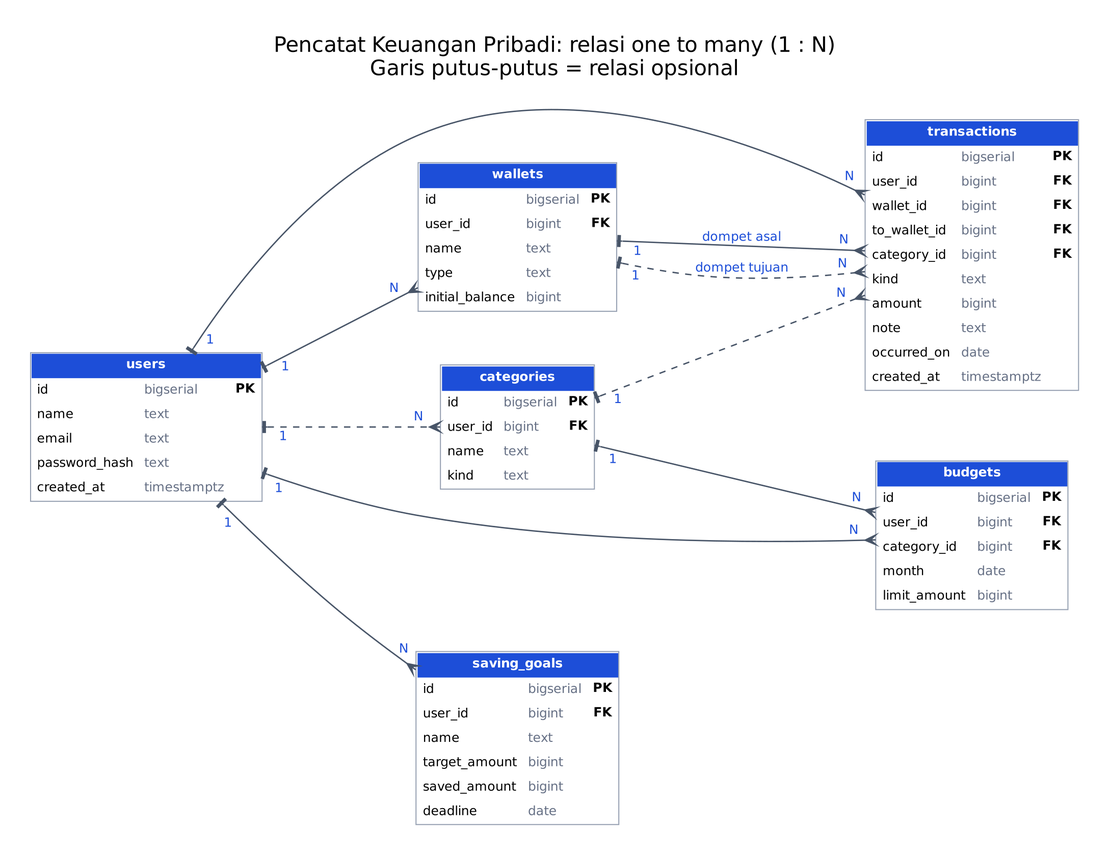
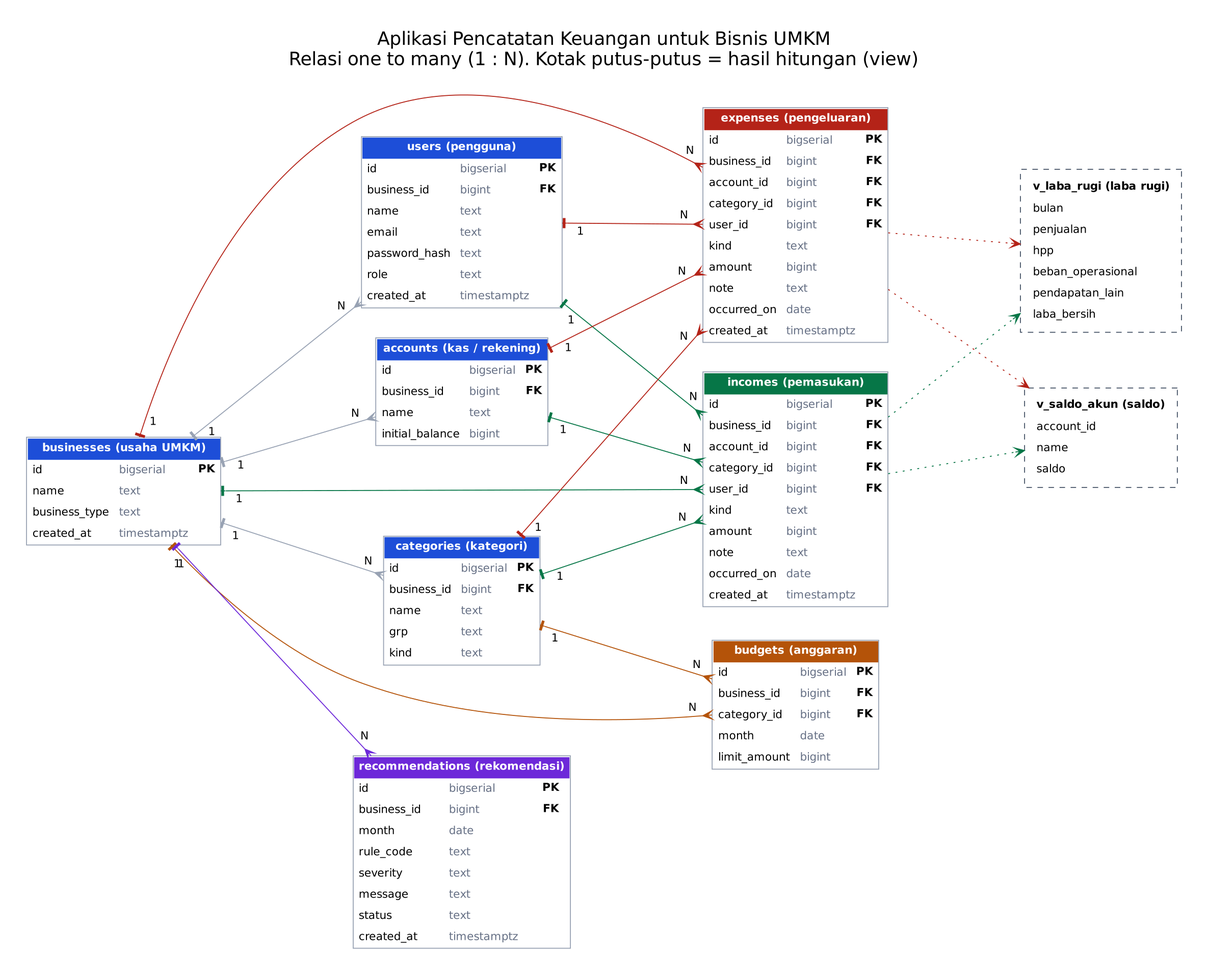
update ke umkm

diff --git a/prototype/index.html b/prototype/index.html
@@ -1,5 +1,5 @@
 <!DOCTYPE html>
-<html lang="id"><head><meta charset="utf-8"><meta name="viewport" content="width=device-width,initial-scale=1"><title>Pencatat Keuangan Pribadi</title>
+<html lang="id"><head><meta charset="utf-8"><meta name="viewport" content="width=device-width,initial-scale=1"><title>Aplikasi Pencatatan Keuangan untuk Bisnis UMKM</title>
 <style>:root{--accent:#2563eb;--bg:#f5f7fe}
 *{box-sizing:border-box;margin:0;padding:0}
 body{font:15px/1.5 system-ui,"Segoe UI",sans-serif;background:var(--bg);color:#1d2230}
@@ -48,7 +48,17 @@ main{padding:28px 4vw}.card{border:0;border-radius:22px;box-shadow:0 6px 24px #1
 .wallets{display:grid;grid-template-columns:repeat(auto-fit,minmax(200px,1fr));gap:14px;margin-bottom:16px}.wallets .card{margin:0;border-top:5px solid var(--accent)}
 .feed{display:flex;justify-content:space-between;gap:10px;padding:12px 0;border-bottom:1px solid #eef0f5}.in{color:#067647;font-weight:700}.out{color:#b42318;font-weight:700}
 svg.area{width:100%;height:230px}
-</style></head><body><header><h1>Pencatat Keuangan Pribadi</h1><div id="nav"></div></header><main></main><div id="toast" role="status"></div>
+
+header h1{max-width:560px;line-height:1.3}.acts{display:flex;gap:8px;align-items:center;flex-wrap:wrap}
+.menu{padding:14px 4vw 0;display:flex}main{padding-top:18px}
+.profit{background:#067647;color:#fff}.profit.loss{background:#b42318}
+.rec{border-left:4px solid;padding:8px 12px;margin-bottom:10px;border-radius:0}.rec.r{border-color:#d92d20;background:#fef3f2;color:#7a271a}.rec.y{border-color:#f79009;background:#fffaeb;color:#7a4504}.rec.g{border-color:#12b76a;background:#ecfdf3;color:#085d3a}.rec.n{border-color:#98a2b3;background:#f2f4f7}
+.hero{display:block;text-align:center;border-radius:0;padding:70px 6vw;margin:0}.hero h2{font-size:clamp(26px,4vw,44px);line-height:1.2}.hero p{max-width:620px;margin:0 auto 18px}
+.feat{display:grid;grid-template-columns:repeat(auto-fit,minmax(220px,1fr));gap:16px;padding:28px 6vw}.feat .card{margin:0}.feat .ic{font-size:30px}
+.steps{text-align:center}footer{text-align:center;padding:24px;color:#667085;font-size:13px}
+.auth{min-height:100vh;display:grid;place-items:center;padding:16px}.auth .card{width:min(420px,100%)}
+form.stack{grid-template-columns:1fr;margin:10px 0}.link{color:var(--accent);cursor:pointer;text-decoration:underline}
+</style></head><body><div id="root"></div><div id="toast" role="status"></div>
 <script>
 const $=s=>document.querySelector(s);
 const esc=s=>String(s??'').replace(/[&<>"']/g,c=>({'&':'&amp;','<':'&lt;','>':'&gt;','"':'&quot;',"'":'&#39;'}[c]));
@@ -58,56 +68,91 @@ const opt=a=>a.map(x=>`<option>${esc(x)}</option>`).join('');
 const table=(h,r)=>`<div class="scroll"><table><tr>${h.map(x=>`<th>${x}</th>`).join('')}</tr>${r.length?r.map(c=>`<tr>${c.map(x=>`<td>${x}</td>`).join('')}</tr>`).join(''):`<tr><td colspan="${h.length}" class="k">Belum ada data.</td></tr>`}</table></div>`;
 const stat=(k,v,s='')=>`<div class="card"><div class="k">${k}</div><div class="v">${v}</div><div class="k">${s}</div></div>`;
 const bar=(label,right,pct,c='')=>`<div class="row"><span>${label}</span><span class="k">${right}</span></div><div class="bar"><i class="${c}" style="width:${Math.min(100,pct)}%"></i></div>`;
-let page,timer;
+let timer;
 function toast(m){const t=$('#toast');t.textContent=m;t.style.display='block';clearTimeout(timer);timer=setTimeout(()=>t.style.display='none',2800)}
-function go(p){page=p;render()}
-function render(){
-  $('#nav').innerHTML=Object.keys(PAGES).map(p=>`<button class="${p===page?'on':''}" onclick="go('${p}')">${ICONS[p]?`<span class="ic" aria-hidden="true">${ICONS[p]}</span>`:''}<span>${p}</span></button>`).join('');
-  $('main').dataset.page=page;
-  $('main').innerHTML=`<h2>${page}</h2>`+PAGES[page]()+`<p class="note">Prototipe tampilan. Data dummy, tersimpan hanya selama halaman terbuka.${typeof NOTE==='string'?' '+NOTE:''}</p>`;
-}
-function donut(entries,colors,center){const t=sum(entries,e=>e[1])||1;let a=0;const seg=entries.map((e,i)=>{const s=a;a+=e[1]/t*100;return `${colors[i%colors.length]} ${s}% ${a}%`}).join(',');
-  return `<div class="donut-wrap"><div class="donut" style="background:conic-gradient(${seg})"><div>${center}</div></div><ul class="legend">${entries.map((e,i)=>`<li><i style="background:${colors[i%colors.length]}"></i>${esc(e[0])}<b>${rp(e[1])}</b></li>`).join('')}</ul></div>`}
 function readForm(e){e.preventDefault();return Object.fromEntries(new FormData(e.target))}
 function csv(name,rows){const q=v=>{v=String(v);if(/^[=+\-@]/.test(v))v="'"+v;return '"'+v.replace(/"/g,'""')+'"'};
   const a=document.createElement('a');a.href=URL.createObjectURL(new Blob([rows.map(r=>r.map(q).join(',')).join('\n')],{type:'text/csv'}));a.download=name;a.click()}
 
-const TITLE='Keuangan Pribadi';
-const wallets={'Tunai':200000,'Rekening':3000000,'E-wallet':150000};
-const tx=[{d:'2026-11-01',k:'Pemasukan',w:'Rekening',c:'Gaji',v:4500000},{d:'2026-11-08',k:'Pengeluaran',w:'Rekening',c:'Tagihan',v:600000},{d:'2026-11-15',k:'Pengeluaran',w:'E-wallet',c:'Transportasi',v:120000},{d:'2026-11-22',k:'Pengeluaran',w:'Tunai',c:'Makan',v:150000},{d:'2026-11-24',k:'Pengeluaran',w:'Rekening',c:'Makan',v:700000}];
-const budgets={'Makan':1000000,'Transportasi':400000,'Tagihan':600000};
-const goals=[{n:'Laptop baru',t:8000000,s:2500000,d:'2027-06-30'},{n:'Dana darurat',t:5000000,s:1000000,d:'2027-12-31'}];
-const cats=['Makan','Transportasi','Tagihan','Hiburan','Gaji','Lainnya'];
-const bal=w=>wallets[w]+sum(tx,t=>t.k==='Transfer'?(t.to===w?t.v:0)-(t.w===w?t.v:0):t.w===w?(t.k==='Pemasukan'?t.v:-t.v):0);
-const spent=c=>sum(tx.filter(t=>t.k==='Pengeluaran'&&t.c===c&&t.d.startsWith('2026-11')),t=>t.v);
-const total=k=>sum(tx.filter(t=>t.k===k&&t.d.startsWith('2026-11')),t=>t.v);
-function addTx(e){const f=readForm(e);if(f.k==='Transfer'&&f.w===f.to)return toast('Dompet asal dan tujuan harus berbeda.');
-  tx.push({d:f.d,k:f.k,w:f.w,to:f.to,c:f.k==='Transfer'?'ke '+f.to:f.c,v:+f.v});render();toast('Tersimpan')}
-function kindChange(s){const t=s.value==='Transfer';$('#to').hidden=!t;$('#cat').hidden=t}
-function budgetList(){return Object.entries(budgets).map(([c,l])=>{const p=spent(c)/l*100;return bar(`${esc(c)} <span class="tag ${p>=100?'r':p>=80?'y':'g'}">${Math.round(p)}%</span>`,`${rp(spent(c))} dari ${rp(l)}`,p,p>=100?'r':p>=80?'y':'')}).join('')}
+const T='Aplikasi Pencatatan Keuangan untuk Bisnis UMKM';
+const NOW='2026-11',TODAY='2026-11-26';
+const IN=['penjualan','pendapatan_lain','modal'];
+const LABEL={penjualan:'Penjualan',pendapatan_lain:'Pendapatan lain',modal:'Setoran modal',hpp:'HPP (bahan/barang)',operasional:'Operasional',prive:'Prive (diambil pemilik)'};
+const defaults=()=>[['Penjualan toko','penjualan'],['Pendapatan lain','pendapatan_lain'],['Modal pemilik','modal'],['Bahan baku','hpp'],['Gaji','operasional'],['Sewa','operasional'],['Listrik & air','operasional'],['Transport','operasional'],['Promosi','operasional'],['Ambil pribadi','prive']];
+const newBiz=(name,owner,email,pass)=>({name,owner,email,pass,cats:defaults(),acc:{Kas:0,Rekening:0},tx:[],bud:{}});
+const demo=newBiz('Usaha Demo','Pemilik Demo','demo@umkm.test','demo1234');demo.acc={Kas:1000000,Rekening:15000000};
+[['09',9200000,4300000,2600000],['10',10500000,4900000,2700000],['11',9800000,5200000,3400000]].forEach(([m,s,h,o])=>{
+  [['01','Penjualan toko',Math.round(s*.4),'Kas'],['15','Penjualan toko',Math.round(s*.6),'Rekening'],['03','Bahan baku',h,'Rekening'],['05','Sewa',900000,'Rekening'],['20','Gaji',1500000,'Rekening'],['12','Listrik & air',350000,'Kas'],['18','Promosi',o-2750000>0?o-2750000:50000,'Kas'],['24','Ambil pribadi',1000000,'Rekening']]
+  .forEach(([d,c,v,a])=>demo.tx.push({d:`2026-${m}-${d}`,c,v,a,n:''}))});
+demo.bud={'Bahan baku':5000000,'Gaji':1500000,'Promosi':500000,'Listrik & air':400000};
+const users=[demo];
+let me=null,view='home',page='Dasbor',month=NOW;
+const grp=c=>(me.cats.find(x=>x[0]===c)||[])[1];
+const inMonth=m=>me.tx.filter(t=>t.d.startsWith(m));
+const total=(m,g)=>sum(inMonth(m).filter(t=>grp(t.c)===g),t=>t.v);
+const spent=(c,m)=>sum(inMonth(m).filter(t=>t.c===c),t=>t.v);
+function pl(m){const s=total(m,'penjualan'),h=total(m,'hpp'),o=total(m,'operasional'),l=total(m,'pendapatan_lain');return{s,h,o,l,kotor:s-h,bersih:s-h-o+l,prive:total(m,'prive')}}
+const prev=m=>{const [y,n]=m.split('-').map(Number);return n===1?`${y-1}-12`:`${y}-${String(n-1).padStart(2,'0')}`};
+const saldo=a=>me.acc[a]+sum(me.tx.filter(t=>t.a===a),t=>IN.includes(grp(t.c))?t.v:-t.v);
+const NAMA={'2026-09':'September','2026-10':'Oktober','2026-11':'November'};
+function recs(){const p=pl(NOW),q=pl(prev(NOW)),r=[];
+  if(!inMonth(NOW).length)return[['n','Mulai mencatat','Catat penjualan dan pengeluaran bulan ini agar rekomendasi bisa dihitung.']];
+  if(p.bersih<0)r.push(['r','Usaha rugi bulan ini',`Rugi ${rp(-p.bersih)}. Periksa pengeluaran terbesar.`]);
+  else if(p.s&&p.bersih/p.s<.1)r.push(['y','Margin laba tipis',`Laba bersih hanya ${(p.bersih/p.s*100).toFixed(1)}% dari penjualan. Tinjau harga jual dan HPP.`]);
+  Object.entries(me.bud).forEach(([c,l])=>{const x=spent(c,NOW)/l;if(x>1)r.push(['r',`Anggaran ${c} terlewati`,`Terpakai ${Math.round(x*100)}%. Tahan belanja kategori ini.`]);else if(x>=.8)r.push(['y',`Anggaran ${c} hampir habis`,`Terpakai ${Math.round(x*100)}%.`])});
+  if(q.o&&p.o>q.o*1.2)r.push(['y','Beban operasional naik',`Naik ${Math.round((p.o/q.o-1)*100)}% dari bulan lalu.`]);
+  if(p.prive>0&&p.prive>p.bersih)r.push(['r','Prive melebihi laba',`Diambil ${rp(p.prive)}, laba bersih ${rp(p.bersih)}.`]);
+  return r.length?r:[['g','Kondisi aman','Tidak ada aturan peringatan yang terpicu bulan ini.']]}
+const recCard=([c,h,m])=>`<div class="rec ${c}"><b>${esc(h)}</b><div>${esc(m)}</div></div>`;
+
+function show(v){view=v;render();scrollTo(0,0)}
+function register(e){const f=readForm(e),email=f.email.trim().toLowerCase();
+  if(!f.biz.trim()||!f.owner.trim())return toast('Nama usaha dan nama pemilik wajib diisi.');
+  if(f.pass.length<8)return toast('Kata sandi minimal 8 karakter.');
+  if(f.pass!==f.pass2)return toast('Konfirmasi kata sandi tidak sama.');
+  if(users.some(u=>u.email===email))return toast('Email sudah terdaftar.');
+  const u=newBiz(f.biz.trim(),f.owner.trim(),email,f.pass);users.push(u);me=u;page='Dasbor';show('app');toast('Pendaftaran berhasil')}
+function login(e){const f=readForm(e),u=users.find(u=>u.email===f.email.trim().toLowerCase()&&u.pass===f.pass);
+  if(!u)return toast('Email atau kata sandi salah.');me=u;page='Dasbor';show('app')}
+function logout(){me=null;show('home')}
+function go(p){page=p;show('app')}
+function addTx(e){const f=readForm(e);me.tx.push({d:f.d,c:f.c,v:+f.v,a:f.a,n:f.n});render();toast('Tersimpan')}
+function addCat(e,g){const f=readForm(e),n=f.n.trim();if(!n||me.cats.some(c=>c[0]===n))return toast('Nama kategori kosong atau sudah ada.');me.cats.push([n,f.g||g]);render()}
+function ledger(masuk){const groups=masuk?IN:['hpp','operasional','prive'],rows=me.tx.filter(t=>groups.includes(grp(t.c))).sort((a,b)=>b.d.localeCompare(a.d));
+  return `<div class="card"><h3>Catat ${masuk?'pemasukan':'pengeluaran'}</h3><form onsubmit="addTx(event)"><label>Tanggal<input type="date" name="d" value="${TODAY}" required></label><label>Kategori<select name="c">${groups.map(g=>`<optgroup label="${LABEL[g]}">${opt(me.cats.filter(c=>c[1]===g).map(c=>c[0]))}</optgroup>`).join('')}</select></label><label>Nominal<input type="number" name="v" min="1" step="1" required></label><label>${masuk?'Masuk ke':'Dibayar dari'}<select name="a">${opt(Object.keys(me.acc))}</select></label><label>Catatan<input name="n"></label><button class="btn">Simpan</button></form></div>
+  <div class="card"><h3>Tambah kategori</h3><form onsubmit="addCat(event)"><label>Nama<input name="n" required></label><label>Kelompok<select name="g">${groups.map(g=>`<option value="${g}">${LABEL[g]}</option>`).join('')}</select></label><button class="btn alt">Tambah</button></form></div>
+  <div class="card">${table(['Tanggal','Kategori','Kelompok','Akun','Catatan','Nominal'],rows.map(t=>[t.d,esc(t.c),LABEL[grp(t.c)],t.a,esc(t.n),rp(t.v)]))}</div>`}
+const budgetList=()=>Object.keys(me.bud).length?Object.entries(me.bud).map(([c,l])=>{const x=spent(c,NOW)/l*100,k=x>100?'r':x>=80?'y':'';return bar(`${esc(c)} <span class="tag ${k||'g'}">${Math.round(x)}%</span>`,`${rp(spent(c,NOW))} dari ${rp(l)}`,x,k)}).join(''):'<p class="k">Belum ada anggaran.</p>';
+const plRows=m=>{const p=pl(m);return[['Penjualan',p.s],['HPP',-p.h],['Laba kotor',p.kotor],['Beban operasional',-p.o],['Pendapatan lain',p.l],['Laba bersih',p.bersih]]};
+function setBalances(e){const f=readForm(e);Object.keys(me.acc).forEach(a=>me.acc[a]=+f[a]||0);render();toast('Saldo awal disimpan')}
 const PAGES={
-'Dasbor':()=>{const out=total('Pengeluaran');const by={};tx.filter(t=>t.k==='Pengeluaran'&&t.d.startsWith('2026-11')).forEach(t=>by[t.c]=(by[t.c]||0)+t.v);
- const trend=[['Jun',2100000],['Jul',2450000],['Agu',1980000],['Sep',2300000],['Okt',2700000],['Nov',out]],mx=Math.max(...trend.map(t=>t[1]));
- return `<div class="grid">${stat('Total saldo',rp(sum(Object.keys(wallets),bal)))}${stat('Pemasukan November',rp(total('Pemasukan')))}${stat('Pengeluaran November',rp(out))}</div>
- <div class="grid two"><div class="card"><h3>Per kategori</h3>${Object.entries(by).map(([k,v])=>bar(esc(k),rp(v),v/out*100)).join('')}</div><div class="card"><h3>Tren 6 bulan</h3>${trend.map(([m,v])=>bar(m,rp(v),v/mx*100)).join('')}</div></div>
- <div class="card"><h3>Anggaran</h3>${budgetList()}</div>`},
-'Transaksi':()=>`<div class="card"><form onsubmit="addTx(event)"><label>Jenis<select name="k" onchange="kindChange(this)"><option>Pengeluaran</option><option>Pemasukan</option><option>Transfer</option></select></label><label>Nominal<input name="v" type="number" min="1" required></label><label>Dompet<select name="w">${opt(Object.keys(wallets))}</select></label><label id="to" hidden>Ke dompet<select name="to">${opt(Object.keys(wallets))}</select></label><label id="cat">Kategori<select name="c">${opt(cats)}</select></label><label>Tanggal<input type="date" name="d" value="2026-11-26" required></label><button class="btn">Simpan</button></form></div>
-<div class="card"><div class="row"><h3>Riwayat</h3><button class="btn alt sm" onclick="csv('transaksi.csv',[['tanggal','jenis','dompet','kategori','nominal'],...tx.map(t=>[t.d,t.k,t.w,t.c,t.v])])">Ekspor CSV</button></div>${table(['Tanggal','Jenis','Dompet','Kategori','Nominal'],[...tx].reverse().map(t=>[t.d,t.k,esc(t.w),esc(t.c),rp(t.v)]))}</div>`,
-'Dompet':()=>`<div class="grid">${Object.keys(wallets).map(w=>stat(esc(w),rp(bal(w)))).join('')}</div><div class="card"><h3>Tambah dompet</h3><form onsubmit="const f=readForm(event);if(f.n in wallets)return toast('Dompet sudah ada.');wallets[f.n]=+f.s;render()"><label>Nama<input name="n" required></label><label>Saldo awal<input name="s" type="number" min="0" required></label><button class="btn">Tambah</button></form></div>`,
-'Anggaran':()=>`<div class="card">${budgetList()}<p class="k">Kuning mulai 80%, merah mulai 100%.</p></div><div class="card"><form onsubmit="const f=readForm(event);budgets[f.c]=+f.l;render()"><label>Kategori<select name="c">${opt(cats.filter(c=>c!=='Gaji'))}</select></label><label>Batas bulanan<input name="l" type="number" min="1" required></label><button class="btn">Atur</button></form></div>`,
-'Target tabungan':()=>`<div class="grid">${goals.map((g,i)=>`<div class="card"><h3>${esc(g.n)}</h3>${bar(rp(g.s),rp(g.t),g.s/g.t*100)}<p class="k">Tenggat ${g.d}</p><button class="btn sm" onclick="goals[${i}].s+=100000;render()">+ Rp100.000</button></div>`).join('')}</div><div class="card"><form onsubmit="const f=readForm(event);goals.push({n:f.n,t:+f.t,s:0,d:f.d});render()"><label>Nama target<input name="n" required></label><label>Nominal<input name="t" type="number" min="1" required></label><label>Tenggat<input name="d" type="date" required></label><button class="btn">Tambah</button></form></div>`
+'Dasbor':()=>{const p=pl(NOW),ms=['2026-09','2026-10','2026-11'],mx=Math.max(1,...ms.flatMap(m=>{const x=pl(m);return[x.s,x.h+x.o]}));
+ return `<div class="grid">${stat('Saldo kas & rekening',rp(sum(Object.keys(me.acc),saldo)),Object.keys(me.acc).map(a=>`${a} ${rp(saldo(a))}`).join(' · '))}${stat('Penjualan November',rp(p.s))}${stat('Pengeluaran usaha',rp(p.h+p.o),'HPP + operasional')}<div class="card profit ${p.bersih<0?'loss':''}"><div>${p.bersih<0?'Rugi bersih':'Laba bersih'} November</div><div class="v">${rp(p.bersih)}</div></div></div>
+ <div class="split"><div class="card"><h3>Penjualan (biru) vs pengeluaran usaha (oranye)</h3><div class="cols">${ms.map(m=>{const x=pl(m);return `<div class="col"><div><i style="height:${x.s/mx*100}%" title="${rp(x.s)}"></i><i class="y" style="height:${(x.h+x.o)/mx*100}%" title="${rp(x.h+x.o)}"></i></div>${NAMA[m]}</div>`}).join('')}</div></div>
+ <div class="card"><h3>Rekomendasi</h3>${recs().slice(0,3).map(recCard).join('')}<button class="btn alt sm" onclick="go('Rekomendasi')">Lihat semua</button></div></div>
+ <div class="card"><h3>Saldo awal</h3><form onsubmit="setBalances(event)">${Object.keys(me.acc).map(a=>`<label>${a}<input type="number" name="${a}" min="0" value="${me.acc[a]}"></label>`).join('')}<button class="btn alt">Simpan</button></form></div>`},
+'Pemasukan':()=>ledger(true),
+'Pengeluaran':()=>ledger(false),
+'Anggaran':()=>`<div class="card"><h3>Anggaran November</h3>${budgetList()}</div><div class="card"><form onsubmit="const f=readForm(event);me.bud[f.c]=+f.l;render()"><label>Kategori<select name="c">${opt(me.cats.filter(c=>c[1]==='hpp'||c[1]==='operasional').map(c=>c[0]))}</select></label><label>Batas bulanan<input type="number" name="l" min="1" required></label><button class="btn">Atur</button></form></div>`,
+'Laba rugi':()=>`<div class="card"><div class="row"><label>Bulan<select onchange="month=this.value;render()">${Object.entries(NAMA).map(([v,n])=>`<option value="${v}" ${v===month?'selected':''}>${n} 2026</option>`).join('')}</select></label><button class="btn alt" onclick="csv('laba-rugi-'+month+'.csv',[['pos','nominal'],...plRows(month)])">Ekspor CSV</button></div></div>
+ <div class="card">${table(['Pos','Nominal'],plRows(month).map(([k,v])=>k.startsWith('Laba')?[`<b>${k}</b>`,`<b>${rp(v)}</b>`]:[k,rp(v)]))}<p class="k">Prive ${rp(pl(month).prive)} tidak mengurangi laba.</p></div>`,
+'Rekomendasi':()=>`<div class="card">${recs().map(recCard).join('')}<p class="k">Dihitung otomatis dari catatan usaha. Bukan nasihat keuangan profesional.</p></div>`
 };
 
-const ICONS={};
-PAGES['Dasbor']=()=>{const out=total('Pengeluaran'),by={};tx.filter(t=>t.k==='Pengeluaran'&&t.d.startsWith('2026-11')).forEach(t=>by[t.c]=(by[t.c]||0)+t.v);
- const tr=[['Jun',2100000],['Jul',2450000],['Agu',1980000],['Sep',2300000],['Okt',2700000],['Nov',out]],mx=Math.max(...tr.map(t=>t[1]));
- const pts=tr.map((t,i)=>`${20+i*112},${190-t[1]/mx*165}`).join(' ');
- return `<div class="hero"><div><div>Total saldo</div><div class="big">${rp(sum(Object.keys(wallets),bal))}</div><button class="btn alt" onclick="go('Transaksi')">+ Catat transaksi</button></div><div class="row"><div class="pill">Masuk November<div class="v">${rp(total('Pemasukan'))}</div></div><div class="pill">Keluar November<div class="v">${rp(out)}</div></div></div></div>
- <div class="wallets">${Object.keys(wallets).map(w=>`<div class="card"><div class="k">${esc(w)}</div><div class="v">${rp(bal(w))}</div></div>`).join('')}</div>
- <div class="split"><div class="card"><h3>Tren pengeluaran 6 bulan</h3><svg class="area" viewBox="0 0 600 220" preserveAspectRatio="none" role="img" aria-label="Tren pengeluaran"><polygon points="20,195 ${pts} 580,195" fill="#2563eb22"/><polyline points="${pts}" fill="none" stroke="#2563eb" stroke-width="3" vector-effect="non-scaling-stroke"/></svg><div class="row k">${tr.map(t=>`<span>${t[0]}</span>`).join('')}</div></div>
- <div class="card"><h3>Per kategori</h3>${donut(Object.entries(by),['#2563eb','#7c3aed','#06b6d4','#f59e0b'],rp(out))}</div></div>
- <div class="split"><div class="card"><h3>Aktivitas terakhir</h3>${[...tx].reverse().slice(0,6).map(t=>`<div class="feed"><div>${esc(t.c)}<div class="k">${t.d} · ${esc(t.w)}</div></div><span class="${t.k==='Pemasukan'?'in':t.k==='Transfer'?'':'out'}">${t.k==='Pemasukan'?'+':t.k==='Transfer'?'':'-'}${rp(t.v)}</span></div>`).join('')}</div>
- <div class="card"><h3>Anggaran</h3>${budgetList()}</div></div>`};
+const auth=(title,body,foot)=>`<div class="auth"><div class="card"><a class="link" onclick="show('home')">← Halaman utama</a><h2>${title}</h2>${body}<p class="k">${foot}</p></div></div>`;
+const VIEWS={
+home:()=>`<header><h1>${T}</h1><div class="acts"><button class="btn alt" onclick="show('login')">Masuk</button><button class="btn" onclick="show('register')">Daftar</button></div></header>
+<section class="hero"><h2>Tahu untung atau rugi usaha Anda setiap bulan</h2><p>Catat pemasukan dan pengeluaran, atur anggaran, dan lihat laporan laba rugi dalam satu tempat.</p><p><button class="btn alt" onclick="show('register')">Daftarkan UMKM Anda</button></p></section>
+<section class="feat">${[['💰','Pemasukan & pengeluaran','Pisahkan penjualan, modal, belanja bahan, dan biaya operasional.'],['🎯','Anggaran','Peringatan saat belanja mendekati atau melewati batas.'],['📈','Laba rugi','Laba kotor dan laba bersih dihitung otomatis.'],['💡','Rekomendasi','Saran dari catatan usaha Anda sendiri.']].map(([i,h,d])=>`<div class="card"><div class="ic">${i}</div><h3>${h}</h3><p class="k">${d}</p></div>`).join('')}</section>
+<section class="steps"><h2>Cara memulai</h2><div class="feat">${['Daftar dengan nama usaha dan email','Isi saldo awal kas dan rekening','Catat transaksi, lalu baca laporannya'].map((s,i)=>`<div class="card"><div class="v">${i+1}</div><p>${s}</p></div>`).join('')}</div></section>
+<footer>${T} · Prototipe tampilan</footer>`,
+register:()=>auth('Daftar UMKM',`<form class="stack" onsubmit="register(event)"><label>Nama usaha<input name="biz" required></label><label>Nama pemilik<input name="owner" required></label><label>Email<input type="email" name="email" required></label><label>Kata sandi (minimal 8)<input type="password" name="pass" minlength="8" required autocomplete="new-password"></label><label>Ulangi kata sandi<input type="password" name="pass2" required autocomplete="new-password"></label><button class="btn">Daftar</button></form>`,`Sudah punya akun? <a class="link" onclick="show('login')">Masuk</a>. Prototipe: jangan pakai kata sandi asli.`),
+login:()=>auth('Masuk',`<form class="stack" onsubmit="login(event)"><label>Email<input type="email" name="email" required></label><label>Kata sandi<input type="password" name="pass" required></label><button class="btn">Masuk</button></form>`,`Belum punya akun? <a class="link" onclick="show('register')">Daftar</a>.<br>Akun demo: demo@umkm.test / demo1234`),
+app:()=>`<header><h1>${T}</h1><div class="acts"><span class="k">${esc(me.name)} · ${esc(me.owner)}</span><button class="btn alt sm" onclick="logout()">Keluar</button></div></header>
+<div class="menu"><div id="nav">${Object.keys(PAGES).map(p=>`<button class="${p===page?'on':''}" onclick="go('${p}')">${p}</button>`).join('')}</div></div>
+<main><h2>${page}</h2>${PAGES[page]()}<p class="note">Prototipe tampilan. Data tersimpan hanya selama halaman terbuka.</p></main>`
+};
+function render(){$('#root').innerHTML=VIEWS[view]()}
 
-go(Object.keys(PAGES)[0]);
+render();
 </script></body></html>

diff --git a/docs/PRD.md b/docs/PRD.md
@@ -1,56 +1,81 @@
-# PRD: Pencatat Keuangan Pribadi
-Status: **DRAF v0.1**, untuk didiskusikan
+# PRD: Aplikasi Pencatatan Keuangan untuk Bisnis UMKM
+Status: **DRAF v0.2**, untuk didiskusikan
 
 ## 1. Latar belakang
-Banyak orang tidak tahu uangnya habis untuk apa karena pencatatan manual cepat ditinggalkan.
+Banyak UMKM mencampur uang usaha dengan uang pribadi dan tidak mencatat rutin, sehingga tidak tahu
+apakah usahanya untung atau rugi.
 
 ## 2. Tujuan
-- Mencatat pemasukan atau pengeluaran dalam waktu kurang dari 10 detik.
-- Saldo per dompet dan ringkasan bulanan terlihat jelas.
-- Pengguna tahu saat anggaran hampir habis.
+- Pemilik usaha mencatat pemasukan dan pengeluaran dengan cepat.
+- Laba kotor dan laba bersih per bulan terlihat tanpa menghitung manual.
+- Pemilik mendapat rekomendasi yang bisa ditindaklanjuti.
 
 ## 3. Pengguna
-Mahasiswa, pekerja, dan siapa pun yang ingin mengatur uang pribadi.
+| Peran | Kebutuhan |
+|---|---|
+| Pemilik UMKM | Daftar sendiri, melihat laba, mengatur anggaran |
+| Staf (fase 2) | Mencatat transaksi |
 
 ## 4. Ruang lingkup MVP
 | # | Fitur | Keterangan |
 |---|---|---|
-| F1 | Akun | Daftar, login, hapus akun |
-| F2 | Dompet | Tunai, rekening, e-wallet (saldo diisi manual) |
-| F3 | Transaksi | Pemasukan, pengeluaran, transfer antar dompet |
-| F4 | Kategori | Kategori bawaan dan buatan sendiri |
-| F5 | Anggaran bulanan | Batas per kategori, peringatan di 80% dan 100% |
-| F6 | Target tabungan | Nominal target, tenggat, progres |
-| F7 | Dasbor & laporan | Grafik per kategori, tren 6 bulan, ekspor CSV |
+| F1 | Halaman utama | Penjelasan aplikasi, tombol Daftar dan Masuk |
+| F2 | Daftar & login | Terbuka untuk semua UMKM; data tiap usaha terpisah |
+| F3 | Pemasukan | Penjualan, pendapatan lain, modal |
+| F4 | Pengeluaran | HPP (bahan/barang dagangan), operasional, prive |
+| F5 | Anggaran bulanan | Batas per kategori, peringatan di 80% dan di atas 100% |
+| F6 | Laporan laba rugi | Per bulan, ekspor CSV |
+| F7 | Rekomendasi | Saran otomatis berbasis aturan |
+| F8 | Dasbor | Saldo kas, laba bulan ini, tren 3 bulan |
 
-**Di luar lingkup:** koneksi ke bank/e-wallet, paylater dan gamifikasi (ada di proyek tracker paylater),
-saran investasi.
+**Di luar lingkup:** hutang/piutang, stok, pajak, koneksi bank, akuntansi berpasangan.
 
 ## 5. Aturan bisnis
-- Saldo dompet = saldo awal + pemasukan - pengeluaran, ditambah/dikurangi transfer.
-- Transfer tidak dihitung sebagai pemasukan atau pengeluaran.
-- Uang disimpan sebagai bilangan bulat rupiah.
+- Laba kotor = penjualan - HPP.
+- Laba bersih = laba kotor - beban operasional + pendapatan lain.
+- Modal dan prive mengubah saldo kas, tetapi tidak dihitung dalam laba.
+- Penyederhanaan: HPP dicatat saat barang/bahan dibayar, bukan saat terjual.
+- Pendaftaran membuat satu usaha dan satu pemilik dalam satu transaksi database. Email unik.
+- Semua query difilter `business_id` milik pengguna yang login.
 
-## 6. Kebutuhan non-fungsional
-Mobile-first, password di-hash, setiap pengguna hanya bisa melihat datanya sendiri.
+## 6. Aturan rekomendasi
+| Kondisi | Saran |
+|---|---|
+| Laba bersih negatif | Periksa pengeluaran terbesar |
+| Margin laba bersih di bawah 10% | Tinjau harga jual dan HPP |
+| Anggaran terpakai lebih dari 100% / minimal 80% | Tahan belanja kategori itu |
+| Beban operasional naik lebih dari 20% dari bulan lalu | Cek kategori yang naik |
+| Prive lebih besar dari laba bersih | Kurangi pengambilan pribadi |
 
-## 7. Relasi antar tabel (ERD)
-Skema lengkap ada di `db/schema.sql`.
+Ambang di atas adalah usulan awal. Rekomendasi bukan nasihat keuangan profesional.
+
+## 7. Kebutuhan non-fungsional
+Mobile-first, password di-hash, batasi percobaan login, validasi input di server.
+
+## 8. Relasi antar tabel (ERD)
+Skema lengkap ada di `db/schema.sql`, gambar di `docs/erd-one-to-many.png`.
 
 ```mermaid
 erDiagram
-    USERS ||--o{ WALLETS : "punya"
-    USERS |o--o{ CATEGORIES : "membuat"
-    WALLETS ||--o{ TRANSACTIONS : "asal"
-    WALLETS |o--o{ TRANSACTIONS : "tujuan transfer"
-    CATEGORIES |o--o{ TRANSACTIONS : "mengelompokkan"
-    CATEGORIES ||--o{ BUDGETS : "dibatasi"
-    USERS ||--o{ SAVING_GOALS : "menargetkan"
+    BUSINESSES ||--o{ USERS : "1 : N"
+    BUSINESSES ||--o{ ACCOUNTS : "1 : N"
+    BUSINESSES ||--o{ CATEGORIES : "1 : N"
+    BUSINESSES ||--o{ INCOMES : "1 : N"
+    BUSINESSES ||--o{ EXPENSES : "1 : N"
+    BUSINESSES ||--o{ BUDGETS : "1 : N"
+    BUSINESSES ||--o{ RECOMMENDATIONS : "1 : N"
+    ACCOUNTS ||--o{ INCOMES : "1 : N"
+    ACCOUNTS ||--o{ EXPENSES : "1 : N"
+    CATEGORIES ||--o{ INCOMES : "1 : N"
+    CATEGORIES ||--o{ EXPENSES : "1 : N"
+    CATEGORIES ||--o{ BUDGETS : "1 : N"
+    USERS ||--o{ INCOMES : "1 : N"
+    USERS ||--o{ EXPENSES : "1 : N"
 ```
 
-## 8. Metrik keberhasilan
-- Pengguna uji mencatat minimal 4 hari per minggu selama 2 minggu.
+`incomes` = pemasukan, `expenses` = pengeluaran, `budgets` = anggaran, `recommendations` = rekomendasi.
+Laba rugi (`v_laba_rugi`) dan saldo (`v_saldo_akun`) dihitung lewat view, tidak disimpan sebagai tabel.
 
 ## 9. Pertanyaan untuk diskusi
-1. Web saja, atau perlu bisa dipasang di HP (PWA)?
-2. Perlu mode offline?
+1. Perlu hutang/piutang di fase 2?
+2. Jenis UMKM target pertama?

diff --git a/README.md b/README.md
@@ -1,5 +1,7 @@
-# Pencatat Keuangan Pribadi
+# Aplikasi Pencatatan Keuangan untuk Bisnis UMKM
 
 - `docs/PRD.md`: kebutuhan produk (draf)
-- `db/schema.sql`: skema database awal (PostgreSQL)
+- `db/schema.sql`: skema database (PostgreSQL)
+- `docs/erd-one-to-many.png`: gambar relasi tabel
+- `docs/screenshot/`: tangkapan layar prototipe
 - `prototype/index.html`: prototipe tampilan (klik dua kali untuk membuka)
